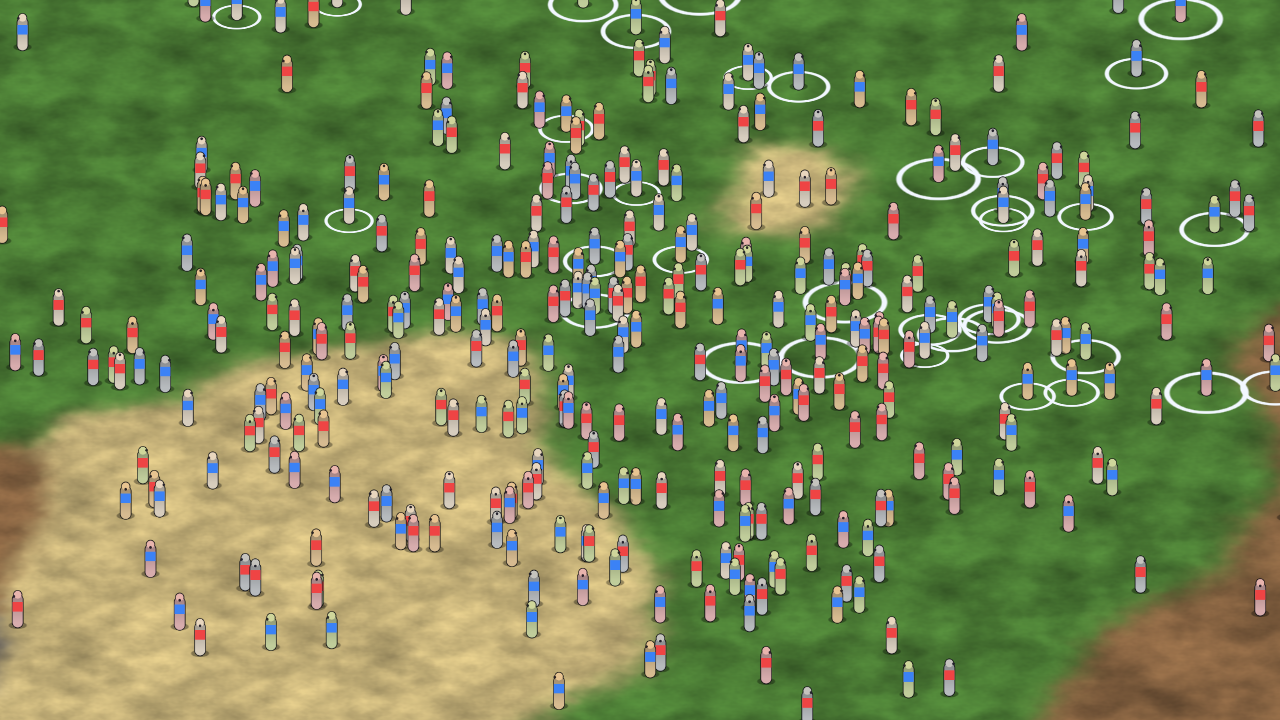
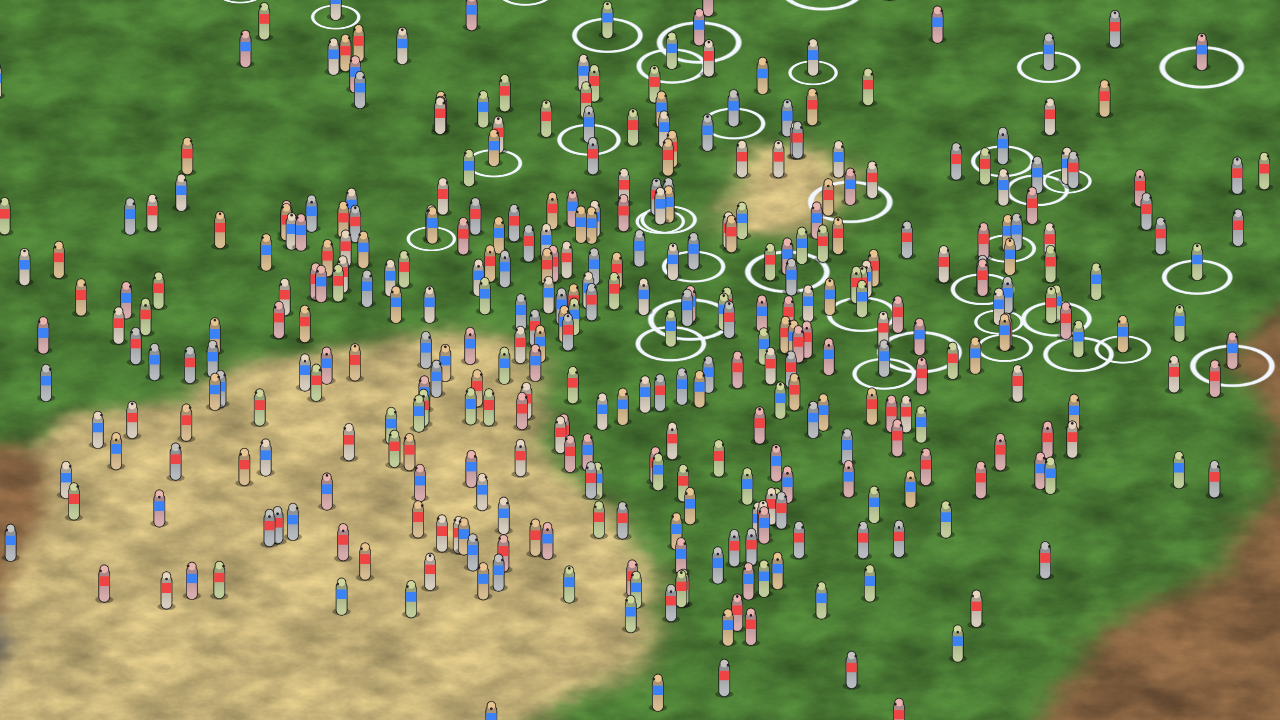
feat(fase-2): simDataHash, browser buildSimData test, skippedUnits (S1-S3)
Claude-Session: https://claude.ai/code/session_012nYUEzRmxtCHUkyu6CPtGm

diff --git a/e2e/render/input-select-move.spec.ts b/e2e/render/input-select-move.spec.ts
@@ -1,4 +1,4 @@
-import { expect, test } from '@playwright/test';
+import { expect, test, type Page } from '@playwright/test';
 
 // Carril U (ADR-006 §5–6, §8): box selection of 100 units, right-click move, control groups, HUD counter.
 // Runs against the integrated client (I1: boot/main.ts + window.__reinos).
@@ -9,6 +9,22 @@ interface Api {
   camera: { x: number; y: number; zoomIndex: number };
   units(): Array<{ eid: number; owner: number; sx: number; sy: number }>;
   metrics: { inputToMarkerMs: number; reactRendersPerSec: number; frameMs: number };
+}
+/** Rubber-band over the given units, kept clear of the HUD (top bar, minimap host at the bottom right). */
+async function boxOver(page: Page, units: Array<{ sx: number; sy: number }>): Promise<void> {
+  const xs = units.map((u) => u.sx);
+  const ys = units.map((u) => u.sy);
+  const pad = 40;
+  await page.mouse.move(Math.max(4, Math.min(...xs) - pad), Math.max(40, Math.min(...ys) - 100));
+  await page.mouse.down();
+  await page.mouse.move(
+    Math.min(1270, Math.max(...xs) + pad),
+    Math.min(578, Math.max(...ys) + 10),
+    {
+      steps: 6,
+    },
+  );
+  await page.mouse.up();
 }
 type W = { __reinos?: Api };
 
@@ -30,9 +46,16 @@ test.describe('input: select, order, groups', () => {
     const xs = units.map((u) => u.sx);
     const ys = units.map((u) => u.sy);
     const pad = 60;
-    await page.mouse.move(Math.min(...xs) - pad, Math.min(...ys) - pad - 40);
+    await page.mouse.move(
+      Math.max(4, Math.min(...xs) - pad),
+      Math.max(4, Math.min(...ys) - pad - 40),
+    );
     await page.mouse.down();
-    await page.mouse.move(Math.max(...xs) + pad, Math.max(...ys) + pad, { steps: 8 });
+    await page.mouse.move(
+      Math.min(1270, Math.max(...xs) + pad),
+      Math.min(578, Math.max(...ys) + pad), // stay clear of the minimap host
+      { steps: 8 },
+    );
     await page.mouse.up();
     await expect(page.getByTestId('selection-count')).toHaveAttribute(
       'data-count',
@@ -53,10 +76,7 @@ test.describe('input: select, order, groups', () => {
       (window as unknown as { __reinos: Api }).__reinos.units().filter((u) => u.owner === 0),
     );
     // Select through the real input path (box), then order: the marker only exists when units obey.
-    await page.mouse.move(2, 80);
-    await page.mouse.down();
-    await page.mouse.move(1278, 560, { steps: 4 });
-    await page.mouse.up();
+    await boxOver(page, own);
     await expect(page.getByTestId('selection-count')).toHaveAttribute(
       'data-count',
       String(own.length),
@@ -82,10 +102,7 @@ test.describe('input: select, order, groups', () => {
         (window as unknown as { __reinos: Api }).__reinos.units().filter((u) => u.owner === 0),
       );
     const before = await get();
-    await page.mouse.move(2, 80);
-    await page.mouse.down();
-    await page.mouse.move(1278, 560, { steps: 4 });
-    await page.mouse.up();
+    await boxOver(page, before);
     await page.mouse.click(900, 200, { button: 'right' });
     await page.waitForTimeout(2500);
     const after = await get();

diff --git a/packages/shared/src/simdata.ts b/packages/shared/src/simdata.ts
@@ -42,8 +42,9 @@ const SIM_DATA_HASH_LAYOUT = 1;
 function hashNum(h: number, v: number, what: string): number {
   if (!Number.isSafeInteger(v))
     throw new RangeError('simDataHash: ' + what + ' must be an integer');
-  // Two 32-bit halves (low word via ToUint32, high word exact for safe integers): injective.
-  return fnv1aInt32(fnv1aInt32(h, v >>> 0), Math.floor(v / 0x100000000));
+  // Two 32-bit halves (low word via ToUint32, high word = exact multiple of 2^32 divided exactly, also for negatives): injective.
+  const lo = v >>> 0;
+  return fnv1aInt32(fnv1aInt32(h, lo), Math.trunc((v - lo) / 0x100000000));
 }
 function hashStr(h: number, s: string): number {
   let x = fnv1aInt32(h, s.length);

diff --git a/packages/shared/test/simdata.test.ts b/packages/shared/test/simdata.test.ts
@@ -60,6 +60,13 @@ describe('simDataHash', () => {
     b.hpFx = [1 + 2 ** 32, 2, 3];
     expect(simDataHash(a)).not.toBe(simDataHash(b));
   });
+  it('does not alias negative values with their uint32 image', () => {
+    const a = base();
+    const b = base();
+    a.movement.arriveDistFx = -1;
+    b.movement.arriveDistFx = 0xffffffff;
+    expect(simDataHash(a)).not.toBe(simDataHash(b));
+  });
   it('rejects non-integer values instead of truncating them', () => {
     const d = base();
     d.movement.arriveDistFx = 100.5;
